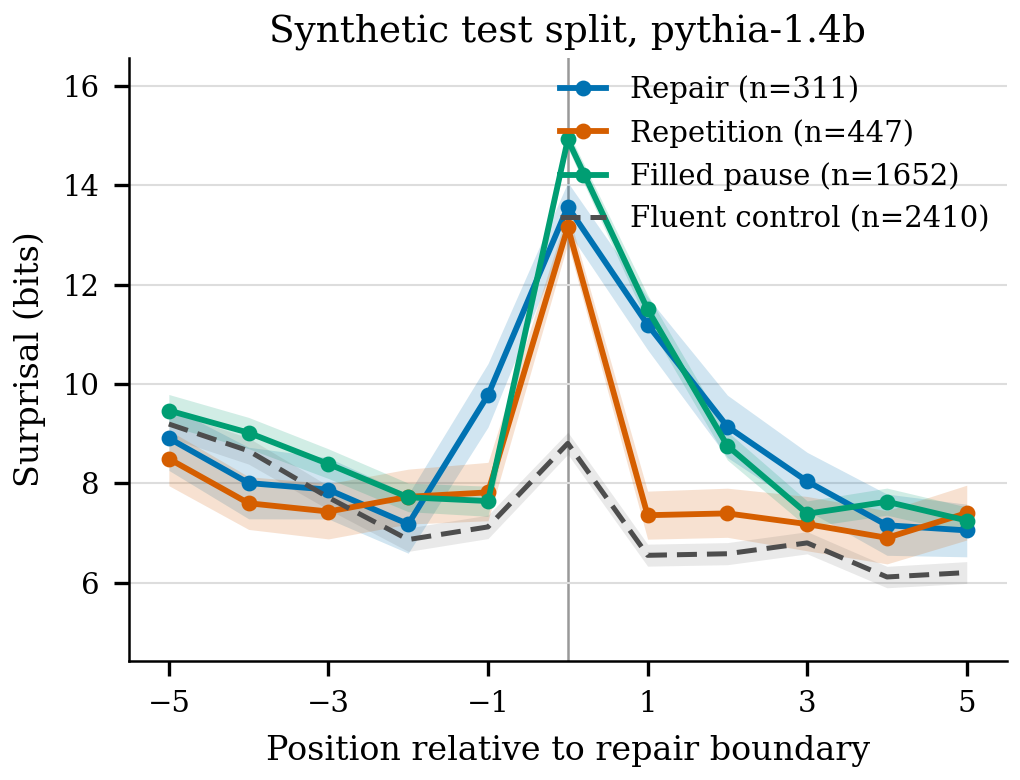
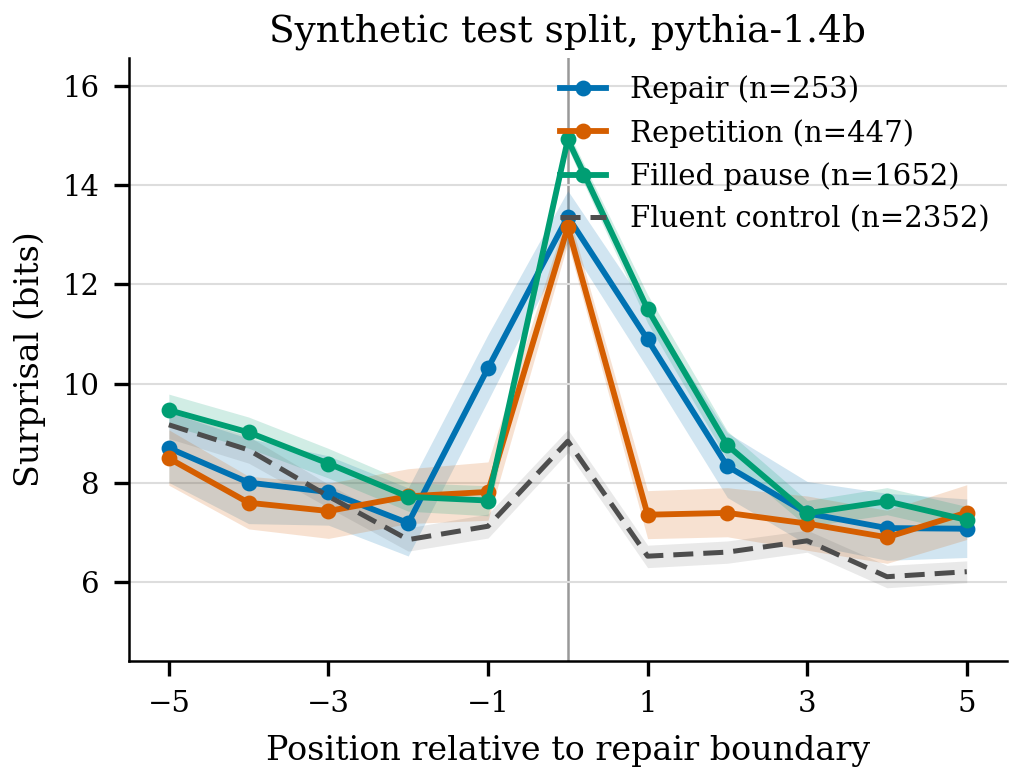
Reinstate the generator conclusion: the retraction came from the bug
Fixing clean_position reversed the pythia-1.4b result. The 58 windows it
discarded were all repairs -- a delayed repair is a repair -- and they were
exactly what had dragged the 1.4b synthetic repair peak to 0. On the 253
correctly-aligned instances both language models put the peak at -1, one position
early, on the reparandum. The difference between the synthetic and real panels is
real after all, and the argument that it reflects how the injector builds a
reparandum is reinstated.

So the sequence is: a claim; a retraction on evidence that looked clean; and the
retraction overturned by finding the bug that produced it. All three states are
in the README and DECISIONS with their numbers, because the useful lesson is that
two configurations disagreeing is a reason to go looking for a bug, not only a
reason to believe the newer one.

One position genuinely does not hold -- the synthetic filled pause moves +1 to 0
between the two models -- and that is now stated rather than only the two that
do. Magnitudes are much less stable than positions throughout.

diff --git a/README.md b/README.md
@@ -34,11 +34,11 @@ comfortable margin.
 
 Almost nothing else does. The mixed model also looks better on the synthetic
 split and on the hand-written hard set, and in both cases the intervals overlap —
-so the honest reading is "did not regress", not "improved". Two further claims
-that were in this README have since been withdrawn: a hard-set result that 100
-sentences could not support, and an argument about the generator that did not
-survive being re-run with a larger language model. Both retractions are below,
-with the reasoning left intact.
+so the honest reading is "did not regress", not "improved". A hard-set claim that
+was in this README has been withdrawn for exactly that reason, and a second
+claim was withdrawn and then reinstated when the evidence for withdrawing it
+turned out to come from a bug. Both episodes are written up below rather than
+quietly edited away.
 
 Half of real self-repairs are still unresolved. That is the honest ceiling.
 
@@ -263,7 +263,7 @@ per-instance differences):
 
 | Type | Synthetic | Real speech (SwDA) |
 |---|---|---|
-| Repair | +3.84 bits [+2.86, +4.84] at −1 (n=311) | **+4.82 bits [+4.42, +5.21] at 0** (n=548) |
+| Repair | +4.57 bits [+3.44, +5.64] at **−1** (n=253) | **+4.82 bits [+4.42, +5.21] at 0** (n=548) |
 | Repetition | +2.91 bits [+2.23, +3.58] at 0 (n=447) | +5.75 bits [+5.45, +6.05] at 0 (n=653) |
 | Filled pause | +5.22 bits [+4.80, +5.65] at +1 (n=1652) | +3.09 bits [+2.76, +3.43] at 0 (n=1430) |
 
@@ -272,10 +272,11 @@ the peak landing exactly on the interruption point, an effect of about five bits
 
 This analysis reads the whole corpus, both the conversations Mend trained on and
 the ones it did not, because it measures human speech with a separate language
-model and Mend plays no part in it. An earlier run over a different 20,000-utterance
-sample of the same corpus gave +4.57 [+4.17, +4.98] on 536 repairs, +5.66 on
-repetitions and +3.42 on filled pauses — the same three peaks in the same places,
-which is the reassuring part.
+model and Mend plays no part in it.
+
+Note the synthetic repair peak sits one position *early*, on the reparandum,
+where the real one sits exactly on the interruption. That difference survives a
+much larger language model, and is discussed below.
 
 ### Does this survive a bigger language model?
 
@@ -286,43 +287,59 @@ family:
 
 | Type | Real speech, 160m | Real speech, 1.4b | Synthetic, 160m | Synthetic, 1.4b |
 |---|---|---|---|---|
-| Repair | +4.82 at 0 | +4.93 at 0 | +3.84 at **−1** | +5.06 at **0** |
+| Repair | +4.82 at 0 | +4.93 at 0 | +4.57 at **−1** | +4.60 at **−1** |
 | Repetition | +5.75 at 0 | +5.83 at 0 | +2.91 at 0 | +5.26 at 0 |
-| Filled pause | +3.09 at 0 | +2.43 at 0 | +5.22 at **+1** | +5.81 at **0** |
+| Filled pause | +3.09 at 0 | +2.43 at 0 | +5.22 at +1 | +5.81 at 0 |
 
-**On real speech the result is solid.** Every peak stays exactly at the
-interruption point and the two largest effects barely move — repair +4.82 →
-+4.93, repetition +5.75 → +5.83, well inside each other's intervals. Only the
-filled-pause magnitude shifts down materially (+3.09 → +2.43). The headline
-claim — that a language model's surprise spikes at the interruption, worth about
-five bits, over 548 genuine human self-repairs — does not depend on model size.
+**Every peak position holds except one.** On real speech all three stay exactly
+on the interruption, and the two largest effects barely move — repair +4.82 →
++4.93, repetition +5.75 → +5.83, well inside each other's intervals. On synthetic
+data the repair peak stays one position early at −1 under both models. The
+exception is the synthetic filled pause, which moves from +1 to 0; that one
+position should not be quoted.
 
-**On synthetic data it is not solid, and this cost me a conclusion.** An earlier
-version of this README argued that the two panels differed in a way that
-indicted the generator: on real speech all three peaks sat at 0, while on
-synthetic data the repair peak sat one position *earlier*, on the reparandum.
-The explanation offered was that the injector's reparandum is a word drawn at
-random from a category — "send it to *Omar*" when the sentence is about Sarah —
-and a random substitution is inherently surprising, whereas a real speaker's
-abandoned word is something they were plausibly about to say.
+Magnitudes are much less stable, and the synthetic column shows why they should
+not be leaned on: synthetic repetition goes +2.91 → +5.26 and real filled pause
+goes +3.09 → +2.43 for no reason other than model size.
 
-pythia-1.4b puts all three synthetic peaks at 0, exactly like real speech. The
-panels no longer differ, so the offset was an artefact of the smaller model
-rather than a fingerprint of the generator. Looking back at the 160m numbers the
-signal was always thin: the synthetic repair effect was +3.84 at −1 against
-+3.26 at 0, two nearly equal values with overlapping intervals, and `argmax`
-had to pick one.
+So **the difference between the two panels is real**: on real speech the surprise
+waits for the interruption, and on synthetic data it arrives a word early, on the
+reparandum. That is what you would expect from the way the injector works — its
+reparandum is usually a word drawn at random from a category, "send it to *Omar*"
+when the sentence is about Sarah, and a random substitution is surprising in
+itself, whereas a real speaker's abandoned word is something they were plausibly
+about to say. The synthetic figure is measuring some of the generator's
+randomness alongside the phenomenon.
 
-The criticism of the injector still stands on its own terms — its reparandum
-usually *is* a random category substitution — 88% of injected repairs are, and
-69% carry one of four stock editing phrases — which is a fact about the code
-rather than something this analysis discovered. What is gone is the evidence that the
-surprisal figure demonstrated it.
+#### A retraction, retracted
+
+An earlier version of this section withdrew that conclusion. The first pythia-1.4b
+run put all three synthetic peaks at 0, which looked like clear evidence that the
+−1 offset had been an artefact of the smaller model, so the argument above was
+struck out and replaced with a retraction.
+
+The retraction was wrong, and a bug caused it. `clean_position` located the
+matching position in the fluent control by counting surviving tokens, which is
+only correct if the disfluent sentence visits the clean tokens in clean order.
+The injector's *delayed repair* deliberately breaks that — it holds the corrected
+token back and emits it a few words later — so 58 of the 311 synthetic repair
+windows were reading their control at an unrelated word. Those 58 were, by
+construction, all repairs. Removing them (`matched_clean_position`, which
+requires the words before the boundary to map onto a contiguous prefix) leaves
+253 clean instances, and both language models then agree on −1.
+
+Real transcripts are always in order — 0 of 81,107 rows have a non-monotone
+alignment — so no real-speech number was ever affected by this.
+
+The sequence is worth stating plainly: a claim, a retraction on apparently good
+evidence, and then the retraction itself overturned by finding the bug that
+produced it. The intermediate numbers are in `DECISIONS.md`.
 
 Two further caveats. The reported effects are paired against each type's own
 control, while the dashed line pools all control windows, so a gap read straight off
 a plot will not reproduce the table. And only disfluencies with a complete ±5 window
-on both sides are analysed.
+on both sides are analysed, minus the 105 synthetic instances whose delayed repair
+leaves no matching position in the fluent control.
 
 ## Honest summary
 
@@ -444,11 +461,11 @@ transcript, never a recognition hypothesis, so it carries none of the substituti
 errors a real recogniser makes. The injector's repairs are still drawn from closed
 word categories. Cut-off words reach training with their hyphen stripped, so
 nothing distinguishes a fragment from a real word and fragments are unhandled. The surprisal analysis rests
-on 548 real repairs and its real-speech peaks hold at nine times the model size,
-but the synthetic peaks do not, so any claim resting on where a synthetic peak
-falls should be treated as a property of the language model until it has been
-checked at more than one scale — as one such claim in this README turned out to
-be. Absolute bit values shift with model size in both.
+on 548 real repairs, and every peak position but one holds at nine times the
+model size. The exception is the synthetic filled pause, which moves from +1 to
+0, so that one position should not be quoted. Absolute bit values are much less
+stable than positions — synthetic repetition moves +2.91 to +5.26 for no reason
+but model size — so read the magnitudes as approximate throughout.
 
 ## A note on `data/hard_set.jsonl`
 

diff --git a/DECISIONS.md b/DECISIONS.md
@@ -142,3 +142,10 @@ survived adversarial verification, 10 were killed. The ones that mattered:
 - 2026-08-05: The documented `mend.evaluate` command omitted `--bootstrap 2000`, so it produced a table without the intervals the README displays and would have overwritten the committed one. The same omission had already been caught and fixed for the surprisal stage and not carried across.
 - 2026-08-05: Claims corrected where they outran the evidence: "better of the two on every set" (false on synthetic exact match and hard-set filler F1), "the split was drawn before either model existed" (the synthetic-only model predates the split), "every gold reachable by deletion" (the twelve cross-clause rows require reordering), "six of eight categories" (it is seven), "nested repair remains the worst category" (false start is worse), "injected repairs are category substitutions with a stock editing phrase" (88% and 69%, not all), and the categorical "synthetic repairs do not teach a model to resolve real ones" (they teach a third).
 - 2026-08-05: "The synthetic data was not what was holding it back" was withdrawn. No experiment measured it: the injector was widened once and the pre-widening model was never scored on real speech, so there is no narrow-vs-wide comparison on SwDA behind the counterfactual.
+
+## The retraction that was itself retracted
+
+- 2026-08-05: Fixing `clean_position` reversed the pythia-1.4b conclusion. The 58 discarded windows were, by construction, all repairs — a delayed repair is a repair — and they were what had dragged the 1.4b synthetic repair peak to 0. On the 253 correctly-aligned instances both language models agree the peak is at -1. The generator argument, withdrawn one commit earlier, is reinstated.
+- 2026-08-05: The full sequence, for the record. Claim: the synthetic repair peak sits one position early, which indicts the injector. Retraction: pythia-1.4b put it at 0, so the offset looked like a small-model artefact. Retraction retracted: the 1.4b run had been reading 58 controls at the wrong word, and with that fixed both models put the peak at -1. Intermediate numbers: 160m before fix +3.84@-1 (n=311), 1.4b before fix +5.06@0 (n=311), 160m after +4.57@-1 (n=253), 1.4b after +4.60@-1 (n=253).
+- 2026-08-05: The lesson worth keeping is that the retraction was written on evidence that looked clean — a bigger model, identical samples, a clear position change — and the thing that made it wrong was a bug in code neither run touched. A disagreement between two configurations is a reason to go looking for a bug, not only a reason to believe the newer number.
+- 2026-08-05: One peak position genuinely is not robust: the synthetic filled pause moves +1 to 0 between the two language models. Said so rather than reporting only the two that hold. Magnitudes are much less stable than positions throughout — synthetic repetition moves +2.91 to +5.26 on model size alone.
